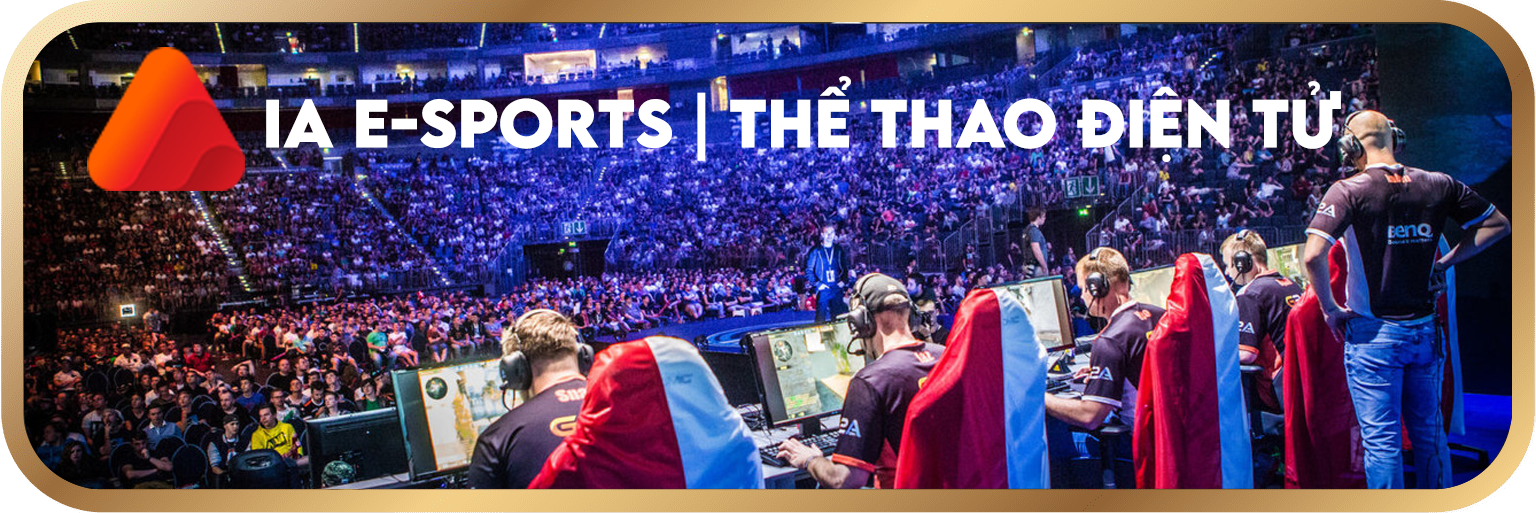
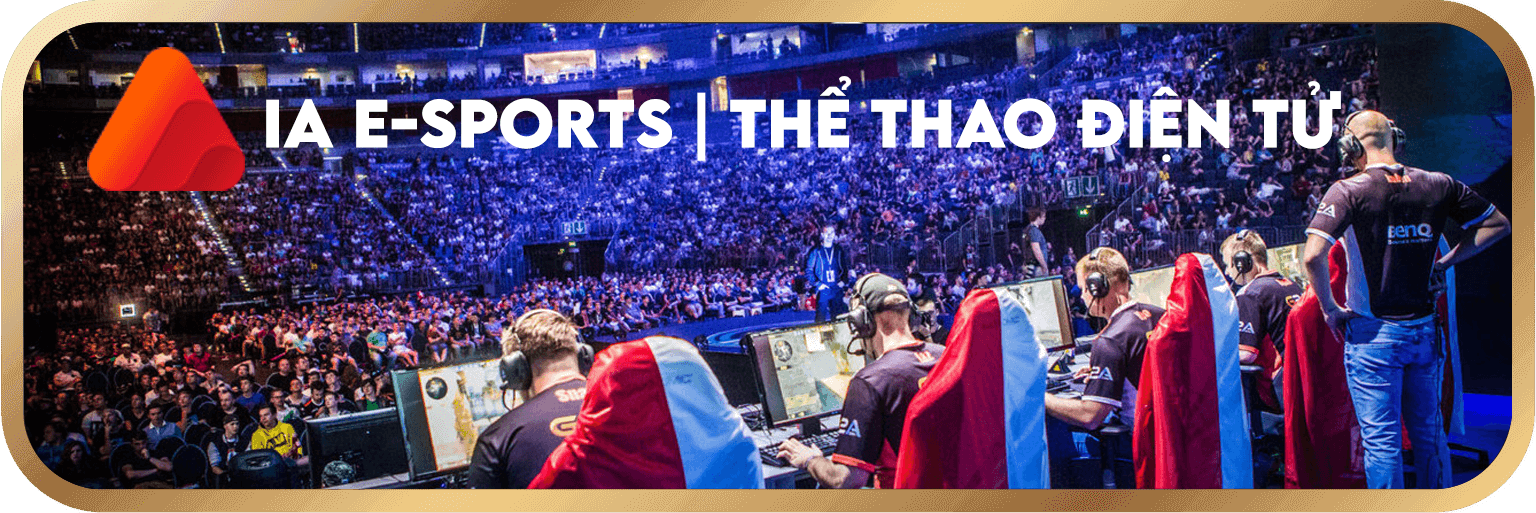
compressed images and add og images

diff --git a/index.html b/index.html
@@ -26,7 +26,7 @@
 
     <meta property="og:type" content="website" />
     <meta property="og:title" content="DVD388.COM" />
-    <meta property="og:image" content="./assets/images/logo-large.png">
+    <meta property="og:image" content="./assets/images/lA_05.jpg">
     <meta property="og:description" content="DVD388.COM">
 
 </head>
